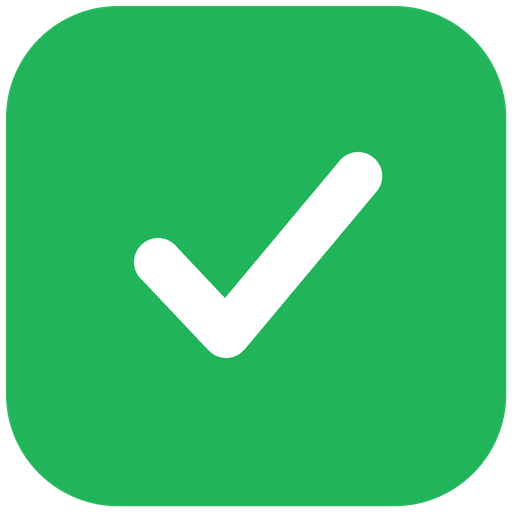
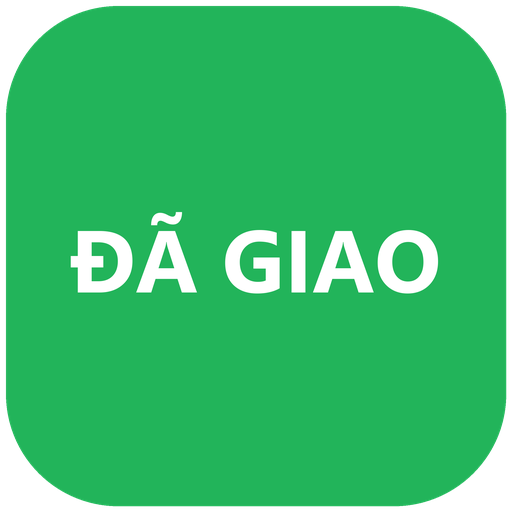
Write the status on the sticker, in Vietnamese
The stickers said what happened only through a pictogram. They now say it in words —
ĐANG TRÊN ĐƯỜNG, SẮP GIAO, ĐÃ GIAO, HOÀN HÀNG — which is what the message beside
them is written in, and which reads at a glance in a chat list. The wording comes from
texts.STICKER_STATUS_TEXT, the same strings /sticker lists, so the drawing and the
command cannot drift apart.

The generator picks the largest size that fits: one line while that stays at least
SINGLE_LINE_MIN_SIZE (so "SẮP GIAO" stays on one line at ~75 px), otherwise the two
lines that balance best (so "ĐANG TRÊN ĐƯỜNG" gets ~90 px instead of ~48). Only a
system font is read and only its rendered output ships, so the art stays licence-free.

Also fixed the deployment hole this exposed: register_icons skipped any status that
already had a file_id, so the newly drawn stickers would never have reached Telegram —
the chat would have kept showing the carrier logos that no longer exist in the repo. It
now stores the drawing's SHA-256 as sticker-art:<status> and re-uploads whenever that
changes, so redrawing a sticker is picked up on the next start.

Vi: Sticker giờ ghi thẳng trạng thái bằng tiếng Việt: ĐANG TRÊN ĐƯỜNG, SẮP GIAO, ĐÃ GIAO, HOÀN HÀNG

Changed region(s): [[0.125, 0.2812, 0.875, 0.7188]]

diff --git a/scripts/make_status_stickers.py b/scripts/make_status_stickers.py
@@ -3,22 +3,35 @@
 
     python scripts/make_status_stickers.py [--out src/vn_parcel_bot/assets/status]
 
-One 512x512 transparent WEBP per status in ``STICKER_STATUSES``. Drawn rather than sourced:
-these are flat shapes, and drawing them keeps the art licence-free, reproducible and easy to
-recolour. Telegram shows a sticker at 512 px on its longest side and refuses one over 512 KB
-(§9.13), so every file is 512x512 RGBA.
+One 512x512 transparent WEBP per status in ``services.stickers.STICKER_STATUSES``, carrying the
+status in Vietnamese — the sticker lands next to a message read in Vietnamese, and the four
+words say what happened faster than any pictogram did. The wording comes from
+``texts.STICKER_STATUS_TEXT``, so the image and the `/sticker` list can never drift apart.
+
+Drawn rather than sourced: these are flat shapes and text, and drawing them keeps the art
+licence-free (only a system font is used, and only its rendered output ships), reproducible, and
+easy to recolour. Telegram shows a sticker at 512 px on its longest side and refuses one over
+512 KB (§9.13), so every file is 512x512 RGBA.
 
 Everything is drawn at ``SCALE`` times the final size and shrunk with LANCZOS: PIL has no
 antialiasing, and a circle drawn at 512 px alone shows a stepped edge.
 """
 
 import argparse
+import sys
 from pathlib import Path
 
-from PIL import Image, ImageDraw
+from PIL import Image, ImageDraw, ImageFont
+
+REPO_ROOT = Path(__file__).resolve().parent.parent
+sys.path.insert(0, str(REPO_ROOT / "src"))
+
+from vn_parcel_bot.services.stickers import STICKER_STATUSES  # noqa: E402
+from vn_parcel_bot.texts import STICKER_STATUS_TEXT  # noqa: E402
 
 SIZE = 512
 SCALE = 4
+CANVAS = SIZE * SCALE
 WHITE = (255, 255, 255, 255)
 
 # One colour per status: blue on the way, orange nearly there, green delivered, red back.
@@ -28,15 +41,35 @@ COLOURS = {
     "delivered": (34, 180, 90),
     "returned": (229, 72, 77),
 }
-DEFAULT_OUT = Path(__file__).resolve().parent.parent / "src" / "vn_parcel_bot" / "assets" / "status"
+# Vietnamese needs a font that carries the diacritics. Both of these are on a stock Windows PC.
+FONT_CANDIDATES = (
+    Path(r"C:\Windows\Fonts\segoeuib.ttf"),
+    Path(r"C:\Windows\Fonts\arialbd.ttf"),
+)
+# Room for the text inside the badge, in final 512 px coordinates.
+MAX_FONT_SIZE = 120
+TEXT_WIDTH = 372
+TEXT_HEIGHT = 300
+LINE_SPACING = 1.14
+# One line reads better than two, but only while it stays big: "SẮP GIAO" fits on one line at
+# ~75 px, while "ĐANG TRÊN ĐƯỜNG" would drop to ~48 px to do so, and two lines give it ~90.
+SINGLE_LINE_MIN_SIZE = 64
+DEFAULT_OUT = REPO_ROOT / "src" / "vn_parcel_bot" / "assets" / "status"
 
 
 def _s(value: float) -> int:
     return round(value * SCALE)
 
 
+def _font(size: int) -> ImageFont.FreeTypeFont:
+    for path in FONT_CANDIDATES:
+        if path.exists():
+            return ImageFont.truetype(str(path), size * SCALE)
+    raise SystemExit(f"no Vietnamese-capable font found in {FONT_CANDIDATES}")
+
+
 def _badge(colour: tuple[int, int, int]) -> tuple[Image.Image, ImageDraw.ImageDraw]:
-    image = Image.new("RGBA", (SIZE * SCALE, SIZE * SCALE), (0, 0, 0, 0))
+    image = Image.new("RGBA", (CANVAS, CANVAS), (0, 0, 0, 0))
     draw = ImageDraw.Draw(image)
     draw.rounded_rectangle(
         [_s(6), _s(6), _s(SIZE - 6), _s(SIZE - 6)], radius=_s(112), fill=(*colour, 255)
@@ -44,71 +77,69 @@ def _badge(colour: tuple[int, int, int]) -> tuple[Image.Image, ImageDraw.ImageDr
     return image, draw
 
 
-def _moving(draw: ImageDraw.ImageDraw, colour: tuple[int, int, int]) -> None:
-    """A box van, moving right."""
-    draw.rounded_rectangle([_s(146), _s(186), _s(318), _s(296)], radius=_s(16), fill=WHITE)
-    draw.rounded_rectangle([_s(318), _s(224), _s(382), _s(296)], radius=_s(14), fill=WHITE)
-    draw.rectangle([_s(330), _s(240), _s(368), _s(268)], fill=(*colour, 255))
-    for centre in (196, 328):
-        draw.ellipse([_s(centre - 27), _s(289), _s(centre + 27), _s(343)], fill=WHITE)
-        draw.ellipse([_s(centre - 9), _s(307), _s(centre + 9), _s(325)], fill=(*colour, 255))
+def _largest_fitting(draw: ImageDraw.ImageDraw, lines: list[str]) -> int | None:
+    """The biggest font size at which every line fits the badge, or None."""
+    limit_width, limit_height = _s(TEXT_WIDTH), _s(TEXT_HEIGHT)
+    for size in range(MAX_FONT_SIZE, 23, -2):
+        font = _font(size)
+        widest = max(draw.textlength(line, font=font) for line in lines)
+        if widest <= limit_width and _s(size * LINE_SPACING) * len(lines) <= limit_height:
+            return size
+    return None
 
 
-def _near(draw: ImageDraw.ImageDraw, colour: tuple[int, int, int]) -> None:
-    """A map pin, with the badge showing through its middle."""
-    draw.ellipse([_s(164), _s(118), _s(348), _s(302)], fill=WHITE)
-    draw.polygon([(_s(256), _s(398)), (_s(196), _s(252)), (_s(316), _s(252))], fill=WHITE)
-    draw.ellipse([_s(216), _s(170), _s(296), _s(250)], fill=(*colour, 255))
+def _balanced_two_lines(draw: ImageDraw.ImageDraw, words: list[str]) -> list[str]:
+    """Split at the break whose longest line is shortest, so the two halves look even."""
 
+    def widest(lines: list[str]) -> float:
+        font = _font(64)
+        return max(draw.textlength(line, font=font) for line in lines)
 
-def _p(point: tuple[float, float]) -> tuple[int, int]:
-    return _s(point[0]), _s(point[1])
-
-
-def _delivered(draw: ImageDraw.ImageDraw) -> None:
-    """A tick."""
-    start, corner, end = (158, 262), (226, 334), (358, 176)
-    draw.line([_p(start), _p(corner), _p(end)], fill=WHITE, width=_s(48), joint="curve")
-    # PIL draws square ends; a disc on each end rounds the tick off.
-    for x, y in (start, end):
-        draw.ellipse([_s(x - 24), _s(y - 24), _s(x + 24), _s(y + 24)], fill=WHITE)
-
-
-def _returned(draw: ImageDraw.ImageDraw) -> None:
-    """A U-turn: up one side, over the top and back down, with the arrow at the end.
-
-    Both legs are the same length and the arrowhead is about one and a half stroke widths
-    wide, so the turn reads as one shape rather than an arc with a wedge stuck on it.
-    """
-    draw.arc([_s(184), _s(148), _s(328), _s(292)], start=180, end=360, fill=WHITE, width=_s(44))
-    draw.line([_p((184, 220)), _p((184, 332))], fill=WHITE, width=_s(44))
-    draw.line([_p((328, 220)), _p((328, 332))], fill=WHITE, width=_s(44))
-    draw.polygon([_p((150, 330)), _p((218, 330)), _p((184, 388))], fill=WHITE)
+    return min(
+        ([" ".join(words[:cut]), " ".join(words[cut:])] for cut in range(1, len(words))),
+        key=widest,
+    )
 
 
 def draw_status(status: str) -> Image.Image:
-    colour = COLOURS[status]
-    image, draw = _badge(colour)
-    if status == "moving":
-        _moving(draw, colour)
-    elif status == "near":
-        _near(draw, colour)
-    elif status == "delivered":
-        _delivered(draw)
+    """The badge with the status written on it, as large as the badge allows."""
+    image, draw = _badge(COLOURS[status])
+    words = STICKER_STATUS_TEXT[status].upper().split()
+    layouts: list[list[str]] = [[" ".join(words)]]
+    if len(words) > 1:
+        layouts.append(_balanced_two_lines(draw, words))
+    sizes = [_largest_fitting(draw, lines) for lines in layouts]
+    if sizes[0] is not None and (len(layouts) == 1 or sizes[0] >= SINGLE_LINE_MIN_SIZE):
+        lines, size = layouts[0], sizes[0]
+    elif sizes[-1] is not None:
+        lines, size = layouts[-1], sizes[-1]
     else:
-        _returned(draw)
+        raise SystemExit(f"cannot fit {status!r} into the badge")
+
+    font = _font(size)
+    line_height = _s(size * LINE_SPACING)
+    top = (CANVAS - line_height * len(lines)) / 2
+    for index, line in enumerate(lines):
+        draw.text(
+            (CANVAS / 2, top + line_height * (index + 0.5)),
+            line,
+            font=font,
+            fill=WHITE,
+            anchor="mm",
+        )
     return image.resize((SIZE, SIZE), Image.Resampling.LANCZOS)
 
 
 def main() -> int:
+    sys.stdout.reconfigure(encoding="utf-8")
     parser = argparse.ArgumentParser(description=__doc__)
     parser.add_argument("--out", type=Path, default=DEFAULT_OUT, help=f"default: {DEFAULT_OUT}")
     args = parser.parse_args()
     args.out.mkdir(parents=True, exist_ok=True)
-    for status in COLOURS:
+    for status in STICKER_STATUSES:
         path = args.out / f"{status}.webp"
         draw_status(status).save(path, "WEBP", lossless=True, method=6)
-        print(f"{path}  {path.stat().st_size} bytes")
+        print(f"{path}  {path.stat().st_size} bytes  {STICKER_STATUS_TEXT[status]!r}")
     return 0
 
 

diff --git a/src/vn_parcel_bot/services/stickers.py b/src/vn_parcel_bot/services/stickers.py
@@ -10,6 +10,7 @@ carrier sticker says nothing about the thing that just happened, while the statu
 that — on the way, nearly there, delivered, coming back.
 """
 
+import hashlib
 import logging
 from pathlib import Path
 from typing import Protocol
@@ -24,9 +25,11 @@ ICON_DIR = Path(__file__).resolve().parent.parent / "assets" / "status"
 # these, and anything not listed here is not a status the bot can talk about.
 STICKER_STATUSES = ("moving", "near", "delivered", "returned")
 
-# The admin's own sticker for a status, and the shipped one behind it.
+# The admin's own sticker for a status, the shipped one behind it, and the drawing that sticker
+# was uploaded from.
 MANUAL_KEY = "sticker:"
 SHIPPED_KEY = "sticker-auto:"
+ART_KEY = "sticker-art:"
 
 
 def sticker_status(state: str, progress: int | None) -> str:
@@ -70,18 +73,22 @@ async def sticker_for(repo: StickerRepo, status: str) -> str | None:
 
 
 async def register_icons(repo: StickerRepo, notifier: StickerNotifier, admin_id: int) -> int:
-    """Upload every shipped sticker Telegram has not been given yet; return how many were added.
+    """Upload every shipped sticker Telegram does not have the current drawing of; return how many.
 
     A sticker that belongs to no pack has no file_id until it has been sent once, so the first
     send goes to the admin's own chat and is deleted right away. A failure is logged and
     skipped: a missing sticker must never be a reason for the bot not to start.
+
+    The uploaded drawing is remembered by its hash, not merely by having been uploaded once: a
+    `file_id` would otherwise keep the bot sending a picture nobody has drawn for months, which
+    is exactly what happened when the carrier logos became status stickers.
     """
     uploaded = 0
     for status in icon_statuses():
-        key = f"{SHIPPED_KEY}{status}"
-        if await repo.get_meta(key):
-            continue
         image = (ICON_DIR / f"{status}.webp").read_bytes()
+        digest = hashlib.sha256(image).hexdigest()
+        if await repo.get_meta(f"{ART_KEY}{status}") == digest:
+            continue
         try:
             file_id = await notifier.upload_sticker(admin_id, image)
         except Exception:
@@ -90,7 +97,8 @@ async def register_icons(repo: StickerRepo, notifier: StickerNotifier, admin_id:
         if not file_id:
             log.warning("status sticker upload failed status=%s", status)
             continue
-        await repo.set_meta(key, file_id)
+        await repo.set_meta(f"{SHIPPED_KEY}{status}", file_id)
+        await repo.set_meta(f"{ART_KEY}{status}", digest)
         uploaded += 1
     if uploaded:
         log.info("status stickers uploaded count=%s", uploaded)

diff --git a/tests/test_stickers.py b/tests/test_stickers.py
@@ -7,7 +7,9 @@ from tests.fakes import FakeNotifier
 from vn_parcel_bot import texts
 from vn_parcel_bot.constants import OUT_FOR_DELIVERY_PROGRESS
 from vn_parcel_bot.db.repo import Repository
+from vn_parcel_bot.services import stickers
 from vn_parcel_bot.services.stickers import (
+    ART_KEY,
     ICON_DIR,
     MANUAL_KEY,
     SHIPPED_KEY,
@@ -104,3 +106,20 @@ async def test_the_manual_sticker_wins_over_the_shipped_one(repo):
     await repo.set_meta(f"{MANUAL_KEY}moving", "file-manual")
     assert await sticker_for(repo, "moving") == "file-manual"
     assert await sticker_for(repo, "delivered") is None
+
+
+async def test_a_redrawn_sticker_is_uploaded_again(repo, tmp_path, monkeypatch):
+    """The cached file_id is the upload of a particular drawing, not a permanent answer."""
+    for status in STICKER_STATUSES:
+        (tmp_path / f"{status}.webp").write_bytes((ICON_DIR / f"{status}.webp").read_bytes())
+    monkeypatch.setattr(stickers, "ICON_DIR", tmp_path)
+    notifier = FakeNotifier()
+
+    assert await register_icons(repo, notifier, ADMIN) == 4
+    assert await register_icons(repo, notifier, ADMIN) == 0, "the same drawing is not re-sent"
+
+    # Any change to the file is a new drawing — the fake notifier never reads it.
+    (tmp_path / "moving.webp").write_bytes((ICON_DIR / "moving.webp").read_bytes() + b"redrawn")
+    assert await register_icons(repo, notifier, ADMIN) == 1
+    assert await repo.get_meta(f"{SHIPPED_KEY}moving") == "file-uploaded"
+    assert await repo.get_meta(f"{ART_KEY}moving") is not None

diff --git a/BUILD_PLAN.md b/BUILD_PLAN.md
@@ -1466,6 +1466,7 @@ ICON_DIR = Path(__file__).resolve().parent.parent / "assets" / "status"
 STICKER_STATUSES = ("moving", "near", "delivered", "returned")
 MANUAL_KEY = "sticker:"            # a sticker the admin mapped with /sticker
 SHIPPED_KEY = "sticker-auto:"      # the sticker that ships with the bot, once uploaded
+ART_KEY = "sticker-art:"           # the drawing `SHIPPED_KEY` was uploaded from, by hash
 
 
 class StickerRepo(Protocol):
@@ -1484,10 +1485,11 @@ async def sticker_for(repo: StickerRepo, status: str) -> str | None: ...
 async def register_icons(repo: StickerRepo, notifier: StickerNotifier, admin_id: int) -> int: ...
 ```
 
-- One sticker per **delivery status**, not per carrier: a parcel keeps its carrier for life, so a carrier sticker says nothing about what just happened, while the status is exactly the change being announced. `STICKER_STATUSES` is the vocabulary, and one drawn `.webp` per status ships in `assets/status/` — 512×512 with a transparent background, under Telegram's 512 KB sticker limit. `scripts/make_status_stickers.py` draws them, so the art is reproducible and carries no licensed glyph.
+- One sticker per **delivery status**, not per carrier: a parcel keeps its carrier for life, so a carrier sticker says nothing about what just happened, while the status is exactly the change being announced. `STICKER_STATUSES` is the vocabulary, and one drawn `.webp` per status ships in `assets/status/` — 512×512 with a transparent background, under Telegram's 512 KB sticker limit.
+- Each sticker writes the status in **Vietnamese**, uppercase, from `texts.STICKER_STATUS_TEXT` — the same wording `/sticker` lists, so the drawing and the command cannot drift apart. `scripts/make_status_stickers.py` draws them: a coloured badge, then the words in the largest size that fits, on one line while that stays at least `SINGLE_LINE_MIN_SIZE` and otherwise on the two lines that balance best. Only a system font is read, and only its rendered output ships, so the art stays licence-free and can be recoloured or reworded by rerunning the script.
 - `sticker_status` maps a parcel onto that vocabulary: `delivered` → `delivered`, `returned` → `returned`, `in_transit` with progress ≥ `OUT_FOR_DELIVERY_PROGRESS` (80) → `near`, anything else → `moving`. It is only asked about a parcel with something new to say, so the state is in transit, delivered or returned by construction.
 - `sticker_for` is the only lookup: `sticker:<status>` from `/sticker` when the admin set one, else `sticker-auto:<status>`, else nothing (no sticker, as before). The poller sends the sticker for the parcel's status before an update (§6.3), and stops trying for the rest of the process once a send fails.
-- `register_icons` runs once at startup (§9.12 `_post_init`), after the deps are built. A sticker that belongs to no pack has no `file_id` until it has been sent once, so it sends each sticker Telegram has not been given yet to `admin_id`, stores the returned `file_id` as `sticker-auto:<status>` and deletes that message. The second start uploads nothing. A missing sticker is never fatal: an upload that returns nothing, raises or is refused is logged (`status sticker upload failed status=…`) and skipped, and so is the whole step when Telegram is unreachable.
+- `register_icons` runs once at startup (§9.12 `_post_init`), after the deps are built. A sticker that belongs to no pack has no `file_id` until it has been sent once, so it uploads each drawing Telegram is not holding to `admin_id`, deletes that message, and stores the returned `file_id` as `sticker-auto:<status>` next to the drawing's SHA-256 as `sticker-art:<status>`. The next start uploads nothing, because the hash still matches — but redrawing a sticker changes the hash and the new picture replaces the old one on the following start, which is why the hash is kept rather than a "was uploaded" flag. A failure is never fatal: an upload that returns nothing, raises or is refused is logged (`status sticker upload failed status=…`) and skipped, and so is the whole step when Telegram is unreachable.
 - `TelegramNotifier.upload_sticker` is the Telegram side: `send_sticker(chat_id, sticker=<bytes>, disable_notification=True)`, return `message.sticker.file_id`, delete the message, and return `None` on any `TelegramError`.
 - Stickers keyed by carrier (`sticker:<carrier>`, `sticker-auto:<carrier>`) and meta `stickers:shipped-icons` are no longer read; the rows are left in `meta` rather than deleted, because the manual ones are the admin's own choice.
 

diff --git a/SPEC.md b/SPEC.md
@@ -1247,6 +1247,7 @@ ICON_DIR = Path(__file__).resolve().parent.parent / "assets" / "status"
 STICKER_STATUSES = ("moving", "near", "delivered", "returned")
 MANUAL_KEY = "sticker:"            # a sticker the admin mapped with /sticker
 SHIPPED_KEY = "sticker-auto:"      # the sticker that ships with the bot, once uploaded
+ART_KEY = "sticker-art:"           # the drawing `SHIPPED_KEY` was uploaded from, by hash
 
 
 class StickerRepo(Protocol):
@@ -1265,10 +1266,11 @@ async def sticker_for(repo: StickerRepo, status: str) -> str | None: ...
 async def register_icons(repo: StickerRepo, notifier: StickerNotifier, admin_id: int) -> int: ...
 ```
 
-- One sticker per **delivery status**, not per carrier: a parcel keeps its carrier for life, so a carrier sticker says nothing about what just happened, while the status is exactly the change being announced. `STICKER_STATUSES` is the vocabulary, and one drawn `.webp` per status ships in `assets/status/` — 512×512 with a transparent background, under Telegram's 512 KB sticker limit. `scripts/make_status_stickers.py` draws them, so the art is reproducible and carries no licensed glyph.
+- One sticker per **delivery status**, not per carrier: a parcel keeps its carrier for life, so a carrier sticker says nothing about what just happened, while the status is exactly the change being announced. `STICKER_STATUSES` is the vocabulary, and one drawn `.webp` per status ships in `assets/status/` — 512×512 with a transparent background, under Telegram's 512 KB sticker limit.
+- Each sticker writes the status in **Vietnamese**, uppercase, from `texts.STICKER_STATUS_TEXT` — the same wording `/sticker` lists, so the drawing and the command cannot drift apart. `scripts/make_status_stickers.py` draws them: a coloured badge, then the words in the largest size that fits, on one line while that stays at least `SINGLE_LINE_MIN_SIZE` and otherwise on the two lines that balance best. Only a system font is read, and only its rendered output ships, so the art stays licence-free and can be recoloured or reworded by rerunning the script.
 - `sticker_status` maps a parcel onto that vocabulary: `delivered` → `delivered`, `returned` → `returned`, `in_transit` with progress ≥ `OUT_FOR_DELIVERY_PROGRESS` (80) → `near`, anything else → `moving`. It is only asked about a parcel with something new to say, so the state is in transit, delivered or returned by construction.
 - `sticker_for` is the only lookup: `sticker:<status>` from `/sticker` when the admin set one, else `sticker-auto:<status>`, else nothing (no sticker, as before). The poller sends the sticker for the parcel's status before an update (§6.3), and stops trying for the rest of the process once a send fails.
-- `register_icons` runs once at startup (§9.12 `_post_init`), after the deps are built. A sticker that belongs to no pack has no `file_id` until it has been sent once, so it sends each sticker Telegram has not been given yet to `admin_id`, stores the returned `file_id` as `sticker-auto:<status>` and deletes that message. The second start uploads nothing. A missing sticker is never fatal: an upload that returns nothing, raises or is refused is logged (`status sticker upload failed status=…`) and skipped, and so is the whole step when Telegram is unreachable.
+- `register_icons` runs once at startup (§9.12 `_post_init`), after the deps are built. A sticker that belongs to no pack has no `file_id` until it has been sent once, so it uploads each drawing Telegram is not holding to `admin_id`, deletes that message, and stores the returned `file_id` as `sticker-auto:<status>` next to the drawing's SHA-256 as `sticker-art:<status>`. The next start uploads nothing, because the hash still matches — but redrawing a sticker changes the hash and the new picture replaces the old one on the following start, which is why the hash is kept rather than a "was uploaded" flag. A failure is never fatal: an upload that returns nothing, raises or is refused is logged (`status sticker upload failed status=…`) and skipped, and so is the whole step when Telegram is unreachable.
 - `TelegramNotifier.upload_sticker` is the Telegram side: `send_sticker(chat_id, sticker=<bytes>, disable_notification=True)`, return `message.sticker.file_id`, delete the message, and return `None` on any `TelegramError`.
 - Stickers keyed by carrier (`sticker:<carrier>`, `sticker-auto:<carrier>`) and meta `stickers:shipped-icons` are no longer read; the rows are left in `meta` rather than deleted, because the manual ones are the admin's own choice.
 

diff --git a/README.md b/README.md
@@ -138,7 +138,7 @@ SPX hubs are read from the status text; other carriers show the location they re
 
 ## Delivery stickers
 
-The bot sends a sticker now and then, silently, just before an update message — chosen by the parcel's **delivery status** rather than its carrier: `moving` (on the way), `near` (out for delivery), `delivered`, `returned`. Telegram bots cannot create a sticker pack, but they can upload a `.webp` and send it as a sticker on its own, so the first start uploads each file in `src/vn_parcel_bot/assets/status/`, keeps the `file_id` it gets back and deletes the message it went out on; every start after that uploads nothing. They are drawn, not sourced: `python scripts/make_status_stickers.py` redraws them, and a new status needs a shape there plus an entry in `STICKER_STATUSES` (`services/stickers.py`) and its Vietnamese meaning in `texts.STICKER_STATUS_TEXT`.
+The bot sends a sticker now and then, silently, just before an update message — chosen by the parcel's **delivery status** rather than its carrier: `moving` (on the way), `near` (out for delivery), `delivered`, `returned`. Each one carries that status in Vietnamese, using the same wording `/sticker` lists. Telegram bots cannot create a sticker pack, but they can upload a `.webp` and send it as a sticker on its own, so the first start uploads each file in `src/vn_parcel_bot/assets/status/`, keeps the `file_id` it gets back and deletes the message it went out on; a later start uploads again only what has been redrawn since (the drawing's hash is kept in `sticker-art:<status>`). They are drawn, not sourced: `python scripts/make_status_stickers.py` redraws them, and a new status needs an entry in `STICKER_STATUSES` (`services/stickers.py`) and its Vietnamese meaning in `texts.STICKER_STATUS_TEXT`.
 
 To use a sticker of your own instead, send it from any Telegram pack and reply to it with `/sticker moving` (admin only; `/sticker` lists the statuses and what each one means). Your sticker then wins over the shipped one. `/sticker moving off` removes your choice and the shipped sticker comes back. If the pack owner deletes your sticker, the bot logs it once and skips it until the next restart.
 
